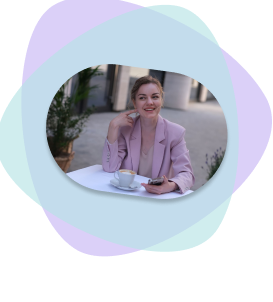
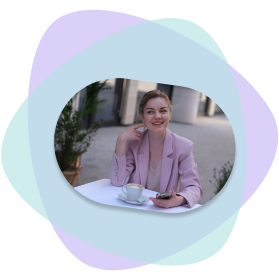
blog

diff --git a/assets/style/mainFooter.scss b/assets/style/mainFooter.scss
@@ -62,14 +62,12 @@
 }
 
 .main-about {
-    width: 1357px;
     height: 715px;
     width: 80%;
     display: flex;
     justify-content: center;
     align-items: center;
     background: url(../images/frame.png) no-repeat;
-    margin-left: 90px;
 }
 .main-about__text_foto{
     display: flex;
@@ -78,6 +76,10 @@
     align-items: center;
 }
 .main-about__biography{
+    display: flex;
+    align-items: flex-end;
+    flex-direction: column;
+    justify-content: space-between;
     width: 558px;
     text-align: right;
 }
@@ -88,7 +90,6 @@ font-weight: 500;
 line-height: 77px;
 height: 163px;
 text-shadow: 0px 3px 3px rgba(120, 118, 118, 0.492);
-// margin-top: 35px;
 }
 .main-about__author {
 font-family: $mainfont;
@@ -96,7 +97,6 @@ font-family: $mainfont;
 font-weight: 700;
 line-height: 43px;
 height: 67px;
-// margin-top: 35px;
 }
 .main-about__ten{
     font-size: 25px;
@@ -107,18 +107,15 @@ font-family: $mainfont;
 @include adaptiv-font(20, 14);
 font-weight: 400;
 line-height: 26px;
-height: 92px;
-// margin-top: 35px;
 }
 .main-about__socialmedia {
 font-family: $titlecloudfont;
 @include adaptiv-font(20, 12);
 font-weight: 700;
+width: 489px;
 display: flex;
-justify-content: space-around;
+justify-content: space-between;
 align-items: center;
-height: 95px;
-// margin-top: 35px;
 }
 .main-about__social{
     display: flex;
@@ -130,12 +127,6 @@ margin-right: 8px;
 .main-about__tch{
     margin-right: 8px;
 }
-// .main-about__social_dop{
-//     width: 80%;
-//     display: flex;
-//     justify-content: space-between;
-//     align-items: center;
-// }
 
 
 .footer{
@@ -283,8 +274,12 @@ margin-right: 8px;
         background: url(../images/frame2.png);
        
     }
+    .main-about__biography{
+        width: 317px;
+    }
     .main-about__title{
         line-height: 45px;
+        height: 110px;
     }
     .main-about__foto_two{
         display: block;
@@ -358,6 +353,9 @@ margin-right: 8px;
     }
     .main-about__title{
         height: 93px;
+    }
+    .main-about__author{
+        height: 43px;
     }
     .main-about__foto_tree{
         display: block;

diff --git a/assets/style/base.css b/assets/style/base.css
@@ -412,14 +412,12 @@ p {
 }
 
 .main-about {
-  width: 1357px;
   height: 715px;
   width: 80%;
   display: flex;
   justify-content: center;
   align-items: center;
   background: url(../images/frame.png) no-repeat;
-  margin-left: 90px;
 }
 
 .main-about__text_foto {
@@ -430,6 +428,10 @@ p {
 }
 
 .main-about__biography {
+  display: flex;
+  align-items: flex-end;
+  flex-direction: column;
+  justify-content: space-between;
   width: 558px;
   text-align: right;
 }
@@ -461,17 +463,16 @@ p {
   font-size: calc(14px + 6 * ((100vw - 320px) / 1120));
   font-weight: 400;
   line-height: 26px;
-  height: 92px;
 }
 
 .main-about__socialmedia {
   font-family: "Poppins", sans-serif;
   font-size: calc(12px + 8 * ((100vw - 320px) / 1120));
   font-weight: 700;
+  width: 489px;
   display: flex;
-  justify-content: space-around;
+  justify-content: space-between;
   align-items: center;
-  height: 95px;
 }
 
 .main-about__social {
@@ -617,8 +618,12 @@ p {
     height: 475px;
     background: url(../images/frame2.png);
   }
+  .main-about__biography {
+    width: 317px;
+  }
   .main-about__title {
     line-height: 45px;
+    height: 110px;
   }
   .main-about__foto_two {
     display: block;
@@ -691,6 +696,9 @@ p {
   }
   .main-about__title {
     height: 93px;
+  }
+  .main-about__author {
+    height: 43px;
   }
   .main-about__foto_tree {
     display: block;
